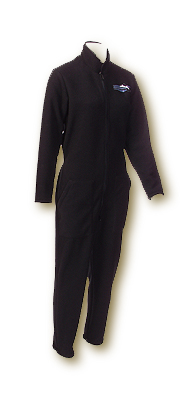
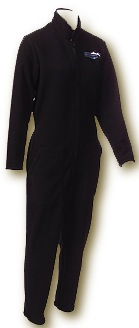
Add photos and sizing

diff --git a/sizes.html b/sizes.html
@@ -27,6 +27,14 @@
       text-align: center;
     }
 
+    .table td {
+      color: #a9a9a9;
+    }
+
+    .table th {
+      color: #a9a9a9;
+    }
+
     /* CUSTOMIZE THE NAVBAR
     -------------------------------------------------- */
 
@@ -86,13 +94,18 @@
       margin-right: auto;
     }
 
+    .featurette table {
+      color: #ffffff;
+    }
+
     .featurette-divider {
       margin: 60px 0; /* Space out the Bootstrap <hr> more */
     }
     .featurette {
       padding-top: 60px; /* Vertically center images part 1: add padding above and below text. */
-      overflow: hidden; /* Vertically center images part 2: clear their floats. */
       background: #213458;
+      font-size: 10px;
+      overflow: hidden;
     }
     .featurette-image {
       margin-top: 20px; /* Vertically center images part 3: negative margin up the image the same amount of the padding to center it. */
@@ -238,36 +251,198 @@
       <hr class="featurette-divider">
 
       <div class="featurette" >
-        <table class="table table-bordered table-hover">
-          <tr>
-            <thead>
-              <tr>
-                <th>Men's Sizing</th>
-                <th>XS</th>
-                <th>S</th>
-                <th>S Long*</th>
-                <th>M Short*</th>
-                <th>M</th>
-                <th>M Long*</th>
-                <th>L Short*</th>
-                <th>L</th>
-                <th>L Long*</th>
-                <th>XL Short*</th>
-                <th>XL</th>
-                <th>XL Long*</th>
-                <th>2XL</th>
-                <th>2XL Long*</th>
-                <th>3XL</th>
-                <th>3XL Long*</th>
-              </tr>
-            </thead>
-            <td>NOTE* FOR ALL SHORT AND LONG SUIT SIZES ADD A $25.00 DOLLAR ALTERATION CHARGE. 
-            </td>
-
-          </tr> 
-        </table>    
-        <table>
-        <tr>    
+        <table class="table table-bordered table-hover table-condensed">
+          <thead>
+            <th colspan="7">Men's Sizing</th>
+          </thead>
+          <thead>
+            <td>Size</td>
+            <td>Height</td>
+            <td>Weight</td>
+            <td>Chest</td>
+            <td>Waist</td>
+            <td>Leg Inseam</td>
+            <td>Arm Length</td>
+          </thead>
+          <tbody>
+            <tr>
+              <th>XS</th>
+              <td>5'2"-5'5"</td>
+              <td>110-126</td>
+              <td>32-33 </td>
+              <td>27-29 </td>
+              <td>26"</td>
+              <td>17"</td>
+            </tr>
+            <tr>
+              <th>S</th>
+              <td>5'5"-5'8"</td>
+              <td>126-140</td>
+              <td>34-36 </td>
+              <td>29-31 </td>
+              <td>27"</td>
+              <td>18"</td>
+            </tr> 
+            <tr>
+              <th>S Long*</th>
+              <td>5'8"-5'10"</td>
+              <td>136-145</td>
+              <td>34-36 </td>
+              <td>29-31 </td>
+              <td>29" </td>
+              <td>20" </td>
+            </tr>
+            <tr>
+              <th>M Short*</th>
+              <td>5'7"-5'9"</td>
+              <td>136-160</td>
+              <td>34-36 </td>
+              <td>31-33 </td>
+              <td>26" </td>
+              <td>17" </td>
+            </tr>
+              <th>M</th>
+              <td>5'9"-5'11"</td>
+              <td>145-160</td>
+              <td>36-38 </td>
+              <td>31-33 </td>
+              <td>28" </td>
+              <td>19" </td>
+            <tr>
+              <th>M Long*</th>
+              <td>5'11"-6'1"</td>
+              <td>155-165</td>
+              <td>36-38 </td>
+              <td>31-33 </td>
+              <td>30" </td>
+              <td>21" </td>
+            </tr>
+            <tr>
+              <th>ML</th>
+              <td>5'9"-6'</td>
+              <td>160-170</td>
+              <td>37-39 </td>
+              <td>33-34 </td>
+              <td>28" </td>
+              <td>19" </td>
+            </tr>
+            <tr>
+              <th>L Short*</th>
+              <td>5'7"-5'9"</td>
+              <td>165-175</td>
+              <td>39-41 </td>
+              <td>34-35 </td>
+              <td>27" </td>
+              <td>17" </td>
+            </tr>
+            <tr>
+              <th>L</th>
+              <td>5'10"-6'</td>
+              <td>170-180</td>
+              <td>39-41 </td>
+              <td>34-35 </td>
+              <td>29" </td>
+              <td>19" </td>
+            </tr>
+            <tr>
+              <th>L Long*</th>
+              <td>6'-6'2"</td>
+              <td>175-190</td>
+              <td>39-41</td>
+              <td>34-35 </td>
+              <td>31" </td>
+              <td>21" </td>
+            </tr>
+            <tr>
+              <th>XL Short*</th>
+              <td>5'7"-5'9"</td>
+              <td>175-195</td>
+              <td>41-44 </td>
+              <td>36-38 </td>
+              <td>27" </td>
+              <td>17" </td>
+            </tr>
+            <tr>
+              <th>XL</th>
+              <td>5'10"-6'</td>
+              <td>185-205</td>
+              <td>41-44 </td>
+              <td>36-38 </td>
+              <td>29" </td>
+              <td>19" </td>
+            </tr>
+            <tr>
+              <th>XL Long*</th>
+              <td>6'1"-6'3"</td>
+              <td>190-210</td>
+              <td>41-44 </td>
+              <td>36-38 </td>
+              <td>31" </td>
+              <td>21" </td>
+            </tr>
+            <tr>
+              <th>2XL</th>
+              <td>5'11"-6'1"</td>
+              <td>210-225</td>
+              <td>44-47 </td>
+              <td>38-40 </td>
+              <td>29 1/2" </td>
+              <td>19" </td>
+            </tr>
+            <tr>
+              <th>2XL Long*</th>
+              <td>6'1"-6'3"</td>
+              <td>215-230</td>
+              <td>44-47 </td>
+              <td>38-40 </td> 
+              <td>31 1/2" </td>
+              <td>21 1/2" </td>
+            </tr>
+            <tr>
+              <th>3XL</th>
+              <td>5'11"-6'1"</td>
+              <td>225-245</td>
+              <td>46-49 </td>
+              <td>40-44 </td>
+              <td>29 1/2" </td>
+              <td>19 1/2"</td> 
+            </tr>
+            <tr>
+              <th>3XL Long*</th>
+              <td>6'1"-6'3"</td>
+              <td>230-250</td>
+              <td>46-49</td>
+              <td>40-44 </td>
+              <td>31 1/2" </td>
+              <td>21 1/2"</td>
+            </tr>
+            <tr>
+              <td colspan="7">NOTE* FOR ALL SHORT AND LONG SUIT SIZES ADD A $25.00 DOLLAR ALTERATION CHARGE.</td>
+            </tr>
+          </tbody>
+        </table> 
+        <hr class="featurette-divider">
+        <table class="table table-bordered table-hover table-condensed">
+          <thead>
+            <th colspan="7">Women's Sizing</th>
+          </thead>
+          <thead>
+            <td>Size</td>
+            <td>Height</td>
+            <td>Weight</td>
+            <td>Chest</td>
+            <td>Waist</td>
+            <td>Leg Inseam</td>
+            <td>Arm Length</td>
+          </thead>
+          <tbody>
+            <tr>
+            </tr>
+            <tr>
+              <td colspan="7">NOTE* FOR ALL SHORT AND LONG SUIT SIZES ADD A $25.00 DOLLAR ALTERATION CHARGE.</td>
+            </tr>
+          </tbody>
+        </table>
       </div>
 
       <hr class="featurette-divider">

diff --git a/dry_suits.html b/dry_suits.html
@@ -210,6 +210,7 @@
                     <li class="divider"></li>
                     <li><a href="dry_suit_accessories.html">Dry Suit Accessories</a></li>
                     <li><a href="wet_suit_accessories.html">Wet Suit Accessories</a></li>
+                    <li class="divider"></li>
                     <li><a href="sizes.html">Sizes</a></li>
                     <li><a href="custom.html">Custom Department</a></li>
                   </ul>
@@ -267,6 +268,7 @@
       <hr class="featurette-divider">
 
       <div class="featurette" >
+        <img class="featurette-image pull-right" src="img/work_capsule.jpg">
         <h2 class="featurette-heading">Dino-Hide&reg; Work Capsule</h2>
         <p>Models:<br>
         5.0mm <span class="muted">(SPL 1012V)</span><br>
@@ -293,6 +295,7 @@
       <hr class="featurette-divider">
 
       <div class="featurette" >
+        <img class="featurette-image pull-right" src="img/twrex.jpg">
         <h2 class="featurette-heading">Titanium Thermo-Shield&reg; Neoprene</h2>
         <p>Models:<br>
         7.0mm <span class="muted">(TWREX&reg; 1013V)</span><br>
@@ -322,6 +325,7 @@
       <hr class="featurette-divider">
 
       <div class="featurette" >
+        <img class="featurette-image pull-right" src="img/aqua_capsule.jpg">
         <h2 class="featurette-heading">SPORT AQUA CAPSULE&reg;</h2>
         <p>Models:<br>
         6.5mm <span class="muted">(SSNT 1013V)</span>

diff --git a/dry_suit_accessories.html b/dry_suit_accessories.html
@@ -237,7 +237,8 @@
 
       <hr class="featurette-divider">
 
-      <div class="featurette" >
+      <div class="featurette">
+        <img class="featurette-image pull-right" src="img/dry_hood.jpg">
         <h2 class="featurette-heading">Soft Stretch&reg; Back Zip Dry Suit Hood</h2>
 
         <p>Models:<br>
@@ -268,6 +269,7 @@
       <hr class="featurette-divider">
 
       <div class="featurette" >
+        <img class="featurette-image pull-right" src="img/titanium_glove.jpg">
         <h2 class="featurette-heading">Titanium Dino-Hide &reg; Cold Water Mitts</h2>
 
         <p>Models:<br>
@@ -281,6 +283,7 @@
       <hr class="featurette-divider">
 
       <div class="featurette" >
+        <img class="featurette-image pull-right" src="img/pw_190.jpg">
         <h2 class="featurette-heading">PW Undergarment</h2>
 
         <p>Models:<br>
@@ -303,6 +306,7 @@
       <hr class="featurette-divider">
 
       <div class="featurette" >
+        <img class="featurette-image pull-right" src="img/pwt_190.jpg">
         <h2 class="featurette-heading">PWT Undergarment w/ Outer Shell</h2>
 
         <p>Models:<br>
@@ -325,6 +329,7 @@
       <hr class="featurette-divider">
 
       <div class="featurette" >
+        <img class="featurette-image pull-right" src="img/lycra_190.jpg">
         <h2 class="featurette-heading">2nd Skin Aqua-Flex Lycra Suit</h2>
         <p>Models:<br>
         2nd 190-Lycra

diff --git a/wet_suit_accessories.html b/wet_suit_accessories.html
@@ -238,6 +238,7 @@
       <hr class="featurette-divider">
 
       <div class="featurette" >
+        <img class="featurette-image pull-right" src="img/kobalt_vest.jpg">
         <h2 class="featurette-heading">Kobalt Hooded Vest</h2>
 
         <p>Models:<br>
@@ -252,6 +253,7 @@
       <hr class="featurette-divider">
 
       <div class="featurette">
+        <img class="featurette-image pull-right" src="img/kobalt_boot.jpg">
         <h2 class="featurette-heading">Kobalt Pro-Flex&reg; Zippered Dive Boots</h2>
 
         <p>Models:<br>
@@ -265,6 +267,7 @@
       <hr class="featurette-divider">
 
       <div class="featurette">
+        <img class="featurette-image pull-right" src="img/kobalt_glove.jpg">
         <h2 class="featurette-heading">Kobalt Pro-Flex&reg; Cold Water Gloves</h2>
 
         <p>Models:<br>
@@ -279,6 +282,7 @@
       <hr class="featurette-divider">
 
       <div class="featurette">
+        <img class="featurette-image pull-right" src="img/kobalt_hood.jpg">
         <h2 class="featurette-heading">Kobalt Pro-flex&reg; Cold Water Hood</h2>
 
         <p>Models:<br>
@@ -305,6 +309,7 @@
       <hr class="featurette-divider">
 
       <div class="featurette">
+        <img class="featurette-image pull-right" src="img/titanium_hood.jpg">
         <h2 class="featurette-heading">Titanium Thermo-Shield&reg; Cold Water Hood</h2>
 
         <p>Models:<br>
